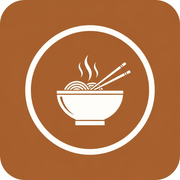
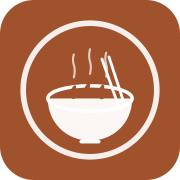
feat: PWA 圖示生成 + CSP Headers + P2P 測試指引
- 從 favicon.svg 生成真正的 PWA PNG 圖示（512/192/180/maskable）
- 4 個 HTML 加入 Content-Security-Policy meta tag
- 新增 TESTING.md 涵蓋 P2P 同步、離線重連、密碼相容性測試清單
- 更新文件（CLAUDE.md、FINDINGS.md、PROGRESS.md）

diff --git a/customer.html b/customer.html
@@ -2,6 +2,7 @@
 <html lang="zh-TW">
   <head>
     <meta charset="UTF-8" />
+    <meta http-equiv="Content-Security-Policy" content="default-src 'self'; script-src 'self'; style-src 'self' 'unsafe-inline' https://fonts.googleapis.com; font-src 'self' https://fonts.gstatic.com; connect-src 'self' https://0.peerjs.com wss://0.peerjs.com; img-src 'self' data: blob:; worker-src 'self'; manifest-src 'self';" />
     <link rel="icon" type="image/svg+xml" href="/favicon.svg" />
     <link rel="apple-touch-icon" href="/apple-touch-icon.png" />
     <meta name="viewport" content="width=device-width, initial-scale=1.0, maximum-scale=1.0, user-scalable=no" />

diff --git a/index.html b/index.html
@@ -2,6 +2,7 @@
 <html lang="zh-TW">
   <head>
     <meta charset="UTF-8" />
+    <meta http-equiv="Content-Security-Policy" content="default-src 'self'; script-src 'self'; style-src 'self' 'unsafe-inline' https://fonts.googleapis.com; font-src 'self' https://fonts.gstatic.com; connect-src 'self' https://0.peerjs.com wss://0.peerjs.com; img-src 'self' data: blob:; worker-src 'self'; manifest-src 'self';" />
     <link rel="icon" type="image/svg+xml" href="/favicon.svg" />
     <link rel="apple-touch-icon" href="/apple-touch-icon.png" />
     <meta name="viewport" content="width=device-width, initial-scale=1.0, maximum-scale=1.0, user-scalable=no" />

diff --git a/kitchen.html b/kitchen.html
@@ -2,6 +2,7 @@
 <html lang="zh-TW">
   <head>
     <meta charset="UTF-8" />
+    <meta http-equiv="Content-Security-Policy" content="default-src 'self'; script-src 'self'; style-src 'self' 'unsafe-inline' https://fonts.googleapis.com; font-src 'self' https://fonts.gstatic.com; connect-src 'self' https://0.peerjs.com wss://0.peerjs.com; img-src 'self' data: blob:; worker-src 'self'; manifest-src 'self';" />
     <link rel="icon" type="image/svg+xml" href="/favicon.svg" />
     <link rel="apple-touch-icon" href="/apple-touch-icon.png" />
     <meta name="viewport" content="width=device-width, initial-scale=1.0, maximum-scale=1.0, user-scalable=no" />

diff --git a/queue.html b/queue.html
@@ -2,6 +2,7 @@
 <html lang="zh-TW">
   <head>
     <meta charset="UTF-8" />
+    <meta http-equiv="Content-Security-Policy" content="default-src 'self'; script-src 'self'; style-src 'self' 'unsafe-inline' https://fonts.googleapis.com; font-src 'self' https://fonts.gstatic.com; connect-src 'self' https://0.peerjs.com wss://0.peerjs.com; img-src 'self' data: blob:; worker-src 'self'; manifest-src 'self';" />
     <link rel="icon" type="image/svg+xml" href="/favicon.svg" />
     <link rel="apple-touch-icon" href="/apple-touch-icon.png" />
     <meta name="viewport" content="width=device-width, initial-scale=1.0, maximum-scale=1.0, user-scalable=no" />

diff --git a/vite.config.ts b/vite.config.ts
@@ -40,7 +40,7 @@ export default defineConfig({
             type: 'image/png',
           },
           {
-            src: '/icons/icon-512.png',
+            src: '/icons/icon-maskable-512.png',
             sizes: '512x512',
             type: 'image/png',
             purpose: 'maskable',

diff --git a/TESTING.md b/TESTING.md
@@ -1,0 +1,118 @@
+# 宏麵屋 - P2P 多設備同步測試指引
+
+## 前置準備
+
+1. `npm run build && npm run preview` 啟動預覽伺服器
+2. 確認區網內設備可透過 `http://<電腦IP>:4173` 存取
+3. 準備至少 2 個設備/瀏覽器（可用同一電腦的不同瀏覽器代替）
+
+---
+
+## 1. 同裝置跨分頁同步（BroadcastChannel）
+
+### 1.1 菜單同步
+- [ ] 開啟 Kitchen 分頁 (`/kitchen.html`)，登入後修改一個品項的價格
+- [ ] 開啟 Customer 分頁 (`/customer.html`)，確認價格即時更新
+- [ ] 在 Kitchen 停售一個品項，確認 Customer 端該品項顯示「售完」
+
+### 1.2 訂單同步
+- [ ] 在 Customer 分頁下單
+- [ ] 確認 Kitchen 分頁即時收到新訂單
+- [ ] 在 Kitchen 更新訂單狀態為「製作中」→「已完成」
+- [ ] 開啟 Queue 分頁 (`/queue.html`)，確認叫號看板即時更新
+
+### 1.3 庫存同步
+- [ ] 在 Kitchen 設定某品項庫存為 1
+- [ ] 在 Customer 下單該品項，庫存歸零
+- [ ] 確認 Customer 端該品項自動顯示「售完」
+
+---
+
+## 2. 跨裝置 P2P 同步（PeerJS）
+
+### 2.1 連線建立
+- [ ] 設備 A 開啟 Kitchen（作為 Host）
+- [ ] 設備 B 開啟 Customer，確認右下角連線狀態圖示轉為「已連線」（綠色）
+- [ ] 設備 B 開啟 Queue，確認同樣顯示已連線
+
+### 2.2 即時資料同步
+- [ ] 設備 A (Kitchen) 修改菜單品項，確認設備 B (Customer) 即時更新
+- [ ] 設備 B 下單，確認設備 A 即時收到訂單
+- [ ] 設備 A 完成訂單，確認設備 B 的 Queue 頁面即時叫號
+
+### 2.3 狀態全量同步
+- [ ] 先在 Kitchen 做若干菜單修改和訂單操作
+- [ ] 再開啟一台新的 Customer 設備
+- [ ] 確認新連線的設備自動收到完整的最新菜單和訂單資料（非空白）
+
+---
+
+## 3. 離線與重連場景
+
+### 3.1 短暫斷線
+- [ ] Customer 設備斷開 WiFi 5 秒後重連
+- [ ] 確認自動重新建立 P2P 連線
+- [ ] 確認重連後資料完整（不遺失斷線期間的變更）
+
+### 3.2 Kitchen 重啟
+- [ ] Kitchen 關閉分頁再重新開啟
+- [ ] 確認 localStorage 中的菜單和訂單資料仍在（Zustand persist）
+- [ ] Customer / Queue 重新連線後，確認資料同步正常
+
+### 3.3 完全離線操作
+- [ ] Customer 在離線時瀏覽菜單（PWA 快取）
+- [ ] 確認離線時可以查看之前快取的菜單資料
+- [ ] 重新上線後確認連線恢復
+
+---
+
+## 4. 密碼加鹽向下相容性驗證
+
+### 4.1 舊密碼（無鹽）相容
+- [ ] 清除 localStorage 中 `kitchen-settings` 的資料
+- [ ] 手動設定 `passwordHash` 為無鹽的 SHA-256 hash（預設 1234 的 hash）：
+  ```js
+  // 在 Console 執行：
+  localStorage.setItem('kitchen-settings', JSON.stringify({
+    state: {
[1 lines of base64/hex data omitted]
+      salt: '',
+      language: 'zh'
+    },
+    version: 0
+  }));
+  ```
+- [ ] 重新載入 Kitchen 頁面，用密碼 `1234` 登入
+- [ ] 確認可以成功登入（向下相容無鹽模式）
+
+### 4.2 新密碼（有鹽）正常運作
+- [ ] 在 Kitchen 設定中更改密碼為新密碼
+- [ ] 登出後用新密碼重新登入
+- [ ] 確認登入成功，且 localStorage 中的 `salt` 欄位不為空
+
+---
+
+## 5. CSP 驗證
+
+### 5.1 Content-Security-Policy 生效
+- [ ] 開啟任一頁面，打開 DevTools Console
+- [ ] 確認沒有 CSP 違規警告（除非是開發模式下 Vite 注入的腳本）
+- [ ] 確認 Google Fonts 正常載入（字型渲染正確）
+- [ ] 確認 PeerJS 連線不被阻擋（P2P 正常運作）
+
+### 5.2 PWA 功能正常
+- [ ] DevTools → Application → Manifest，確認圖示正確載入
+- [ ] 確認 Service Worker 正常註冊
+- [ ] 確認「安裝應用程式」選項可用（桌面/手機）
+
+---
+
+## 常見問題排查
+
+| 症狀 | 可能原因 | 解決方式 |
+|------|----------|----------|
+| P2P 連線失敗 | 防火牆阻擋 WebRTC | 確認同一區網，嘗試關閉防火牆 |
+| 叫號沒有聲音 | 瀏覽器音效政策 | 需先點擊頁面任意位置解鎖音效 |
+| 菜單不同步 | BroadcastChannel 不支援 | 確認使用現代瀏覽器（Chrome 54+） |
+| CSP 阻擋資源 | 政策過嚴 | 查看 Console 的 CSP 違規報告，調整對應指令 |
+| PWA 圖示未更新 | Service Worker 快取 | 清除快取或等待自動更新 |

diff --git a/FINDINGS.md b/FINDINGS.md
@@ -693,6 +693,63 @@ JS bundle 主要組成：React + ReactDOM (~140 KB), PeerJS (~80 KB), Radix UI (
 
 ---
 
+---
+
+## 9. 安全掃描修復與程式碼簡化 (2026-02-20)
+
+> 安全漏洞修復、P2P payload 驗證、密碼安全強化、程式碼 DRY 重構。
+
+### 9.1 P2P Payload 型別驗證
+
+**問題**：PeerJS DataChannel 接收的訊息未經驗證即直接使用，惡意或畸形資料可能導致 store 狀態損壞。
+
+**解決方案**：在 `usePeerSync.ts` 新增 5 個型別驗證函式（`isValidMenuItem`、`isValidOrder`、`isValidInventoryPayload` 等），在 `handleMessage` 中先驗證再處理。
+
+**選擇理由**：runtime 型別驗證比 TypeScript 編譯期型別更安全，因為 P2P 訊息來自外部，TypeScript 無法保證其結構。未採用 zod 等驗證庫是為了保持零額外依賴。
+
+### 9.2 密碼加鹽（Salt）向下相容設計
+
+**問題**：原本密碼只用 SHA-256 雜湊（無鹽），相同密碼產生相同 hash，存在彩虹表攻擊風險。
+
+**解決方案**：
+- 新建 `src/lib/crypto.ts`，`hashPassword(password, salt?)` 支援有鹽/無鹽兩種模式
+- `generateSalt()` 使用 `crypto.getRandomValues()` 產生隨機鹽值
+- KitchenSettings 儲存密碼時同時儲存 salt
+- KitchenLogin 驗證時：先用 salt 嘗試，失敗則用無鹽模式重試（向下相容）
+
+**選擇理由**：向下相容確保升級後舊密碼仍可登入，使用者首次更改密碼後自動升級為加鹽模式。使用 Web Crypto API (`crypto.subtle.digest`) 而非第三方庫。
+
+### 9.3 syncHandlers 統一訊息處理模式
+
+**問題**：P2P（usePeerSync）和 BroadcastChannel（useBroadcastListener）處理相同類型的訊息（inventory-sync、menu-sync、order-sync 等），但邏輯各自實作，維護時容易不一致。
+
+**解決方案**：新建 `src/lib/syncHandlers.ts`，將訊息處理邏輯統一為一組 handler 函式，usePeerSync 和 useBroadcastListener 都呼叫同一組 handler。
+
+**成效**：
+- usePeerSync 的 `handleMessage` 從 40+ 行縮減為 4 行
+- useBroadcastListener 從 62 行縮減為 18 行
+- 未來新增訊息類型只需在 syncHandlers 中加一處
+
+**選擇理由**：Single Source of Truth 原則 — 相同邏輯不應存在於兩處。
+
+### 9.4 npm audit 漏洞修復策略
+
+**問題**：`npm audit` 報告 minimatch 相關的 HIGH/MEDIUM 漏洞。
+
+**解決方案**：在 `package.json` 中使用 `overrides` 欄位強制指定 `minimatch >= 10.2.1`。
+
+**選擇理由**：漏洞位於間接依賴（transitive dependency），無法透過直接升級解決。`overrides` 是 npm 官方推薦的間接依賴版本覆寫機制，比 `npm audit fix --force` 更可控。
+
+### 9.5 共用工具函式消除重複
+
+**問題**：`generateId()` 在 3 個 store 中各自實作（邏輯相同），`localized()` 翻譯取值邏輯在多處重複。
+
+**解決方案**：將 `generateId()` 和 `localized()` 抽取為共用工具函式，20 處重複改為單一引用。
+
+**選擇理由**：DRY 原則。共用函式集中維護，若未來需更改 ID 生成策略（如改用 UUID v7），只需修改一處。
+
+---
+
 ### 7.5 日式裝飾圖案的 CSS 實現
 
 **問題**：青海波（seigaiha）、雲紋等日式圖案傳統上使用圖片，但圖片會增加 bundle 大小且不易調整顏色。

diff --git a/PROGRESS.md b/PROGRESS.md
@@ -1,5 +1,49 @@
 # 現場點餐系統 - 進度追蹤
 
+## Session: 2026-02-20 (2) - 安全掃描修復 + 程式碼簡化
+
+### 完成項目
+- [x] npm audit 漏洞修復：overrides minimatch >=10.2.1，0 vulnerabilities
+- [x] P2P payload 驗證：usePeerSync.ts 加入 5 個型別驗證函式，防止惡意/畸形資料
+- [x] 密碼加鹽：新建 src/lib/crypto.ts（hashPassword + generateSalt），向下相容無鹽模式
+- [x] 移除密碼提示：「預設密碼: 1234」改為「請洽管理員取得密碼」
+- [x] 密碼複雜度：MIN_PASSWORD_LENGTH = 4
+- [x] hashPassword 去重：KitchenLogin + KitchenSettings 改用共用 crypto.ts
+- [x] 共用工具函式：generateId() + localized() 消除 20 處重複
+- [x] syncHandlers.ts：統一 P2P/BroadcastChannel 訊息處理邏輯
+- [x] usePeerSync 簡化：handleMessage 40+ 行縮減為 4 行
+- [x] useBroadcastListener 簡化：62 行縮減為 18 行
+- [x] 元件簡化：ToggleSwitch 抽取、stateMap/sizeClasses lookup 取代 ternary
+- [x] stores 簡化：移除重複 generateId，updateOrderStatus 用 lookup map
+- [x] `npm run build` 通過
+- [x] 已 push 到遠端
+
+### 修改檔案
+- `src/lib/crypto.ts` - 新建：hashPassword（加鹽 SHA-256）+ generateSalt 共用模組
+- `src/lib/syncHandlers.ts` - 新建：統一 P2P/BroadcastChannel 訊息處理邏輯
+- `src/hooks/usePeerSync.ts` - P2P payload 驗證函式 + handleMessage 簡化為 syncHandlers 呼叫
+- `src/hooks/useBroadcastListener.ts` - 62 行簡化為 18 行，改用 syncHandlers
+- `src/components/kitchen/KitchenLogin.tsx` - 移除內嵌 hashPassword，改用 crypto.ts；密碼提示改為「請洽管理員取得密碼」
+- `src/components/kitchen/KitchenSettings.tsx` - 移除內嵌 hashPassword，改用 crypto.ts；加入密碼複雜度驗證
+- `src/stores/useOrderStore.ts` - 移除重複 generateId，updateOrderStatus 用 lookup map
+- `src/stores/useMenuStore.ts` - 移除重複 generateId，改用共用 generateId
+- `src/stores/useCartStore.ts` - 移除重複 generateId，改用共用 generateId
+- `src/components/kitchen/OrderCard.tsx` - stateMap/sizeClasses lookup 取代 ternary
+- `src/components/kitchen/InventoryPanel.tsx` - ToggleSwitch 抽取簡化
+- `package.json` - overrides minimatch >=10.2.1 修復 npm audit 漏洞
+
+### Commits
+- `ab9de1e` - fix: 安全掃描修復 + 程式碼簡化
+
+### 5-Question Reboot Check
+1. **做什麼？** 安全掃描修復（npm audit、P2P payload 驗證、密碼加鹽）+ 程式碼簡化（共用工具函式、syncHandlers 統一訊息處理）
+2. **進度？** 100% 完成 — commit 已 push
+3. **下一步？** (1) 替換 PWA placeholder 圖示 (2) 真實裝置多設備 P2P 同步測試 (3) 密碼加鹽後的 migration 測試（確認舊密碼向下相容） (4) 考慮 CSP header 設定
+4. **阻礙？** PWA 圖示仍為 placeholder；PeerJS 使用公共信令伺服器；密碼加鹽的向下相容需要在真實環境驗證
+5. **檔案？** `src/lib/crypto.ts`（密碼加鹽邏輯）、`src/lib/syncHandlers.ts`（統一訊息處理）、`src/hooks/usePeerSync.ts`（P2P payload 驗證）、`src/components/kitchen/KitchenSettings.tsx`（密碼設定）
+
+---
+
 ## Session: 2026-02-20 - MPA 架構遷移 + 跨分頁同步修復
 
 ### 完成項目

diff --git a/CLAUDE.md b/CLAUDE.md
@@ -17,7 +17,7 @@ src/
 │   └── shared/           # 共用 (ConnectionStatus, SteamAnimation, WaveDivider, CloudDivider, JapaneseFrame, RamenBowlIcon)
 ├── stores/               # Zustand stores (useMenuStore, useCartStore, useOrderStore, useSettingsStore)
 ├── hooks/                # usePeerSync, useSound, useSpeech, useBroadcastListener
-├── lib/                  # utils (cn), peer (PeerService + BroadcastChannel)
+├── lib/                  # utils (cn + generateId + localized), peer (PeerService + BroadcastChannel), crypto (hashPassword + generateSalt), syncHandlers (統一 P2P/BC 訊息處理)
 ├── types/                # TypeScript 型別
 ├── constants/            # 翻譯 (zh/en)、預設菜單
 ├── main-landing.tsx      # MPA 入口：首頁
@@ -45,7 +45,7 @@ npm run preview
 - **同步策略**：PeerJS (跨設備) + BroadcastChannel (同裝置跨分頁)
 - **BroadcastChannel 自動同步**：KitchenView 用 `useMenuStore.subscribe()` 偵測 store 變化自動 broadcast；Customer/Queue 用 `useBroadcastListener` hook 監聽
 - **持久化**：Zustand persist → localStorage（MPA 各頁面共享 localStorage，但 store 實例獨立）
-- **密碼保護**：SHA-256 雜湊，預設密碼 `1234`
+- **密碼保護**：SHA-256 加鹽雜湊（src/lib/crypto.ts），向下相容無鹽模式
 - **翻譯型別**：`Translations = { [K in keyof typeof translations.zh]: string }` 解決字面量衝突
 
 ## 品牌主題系統
